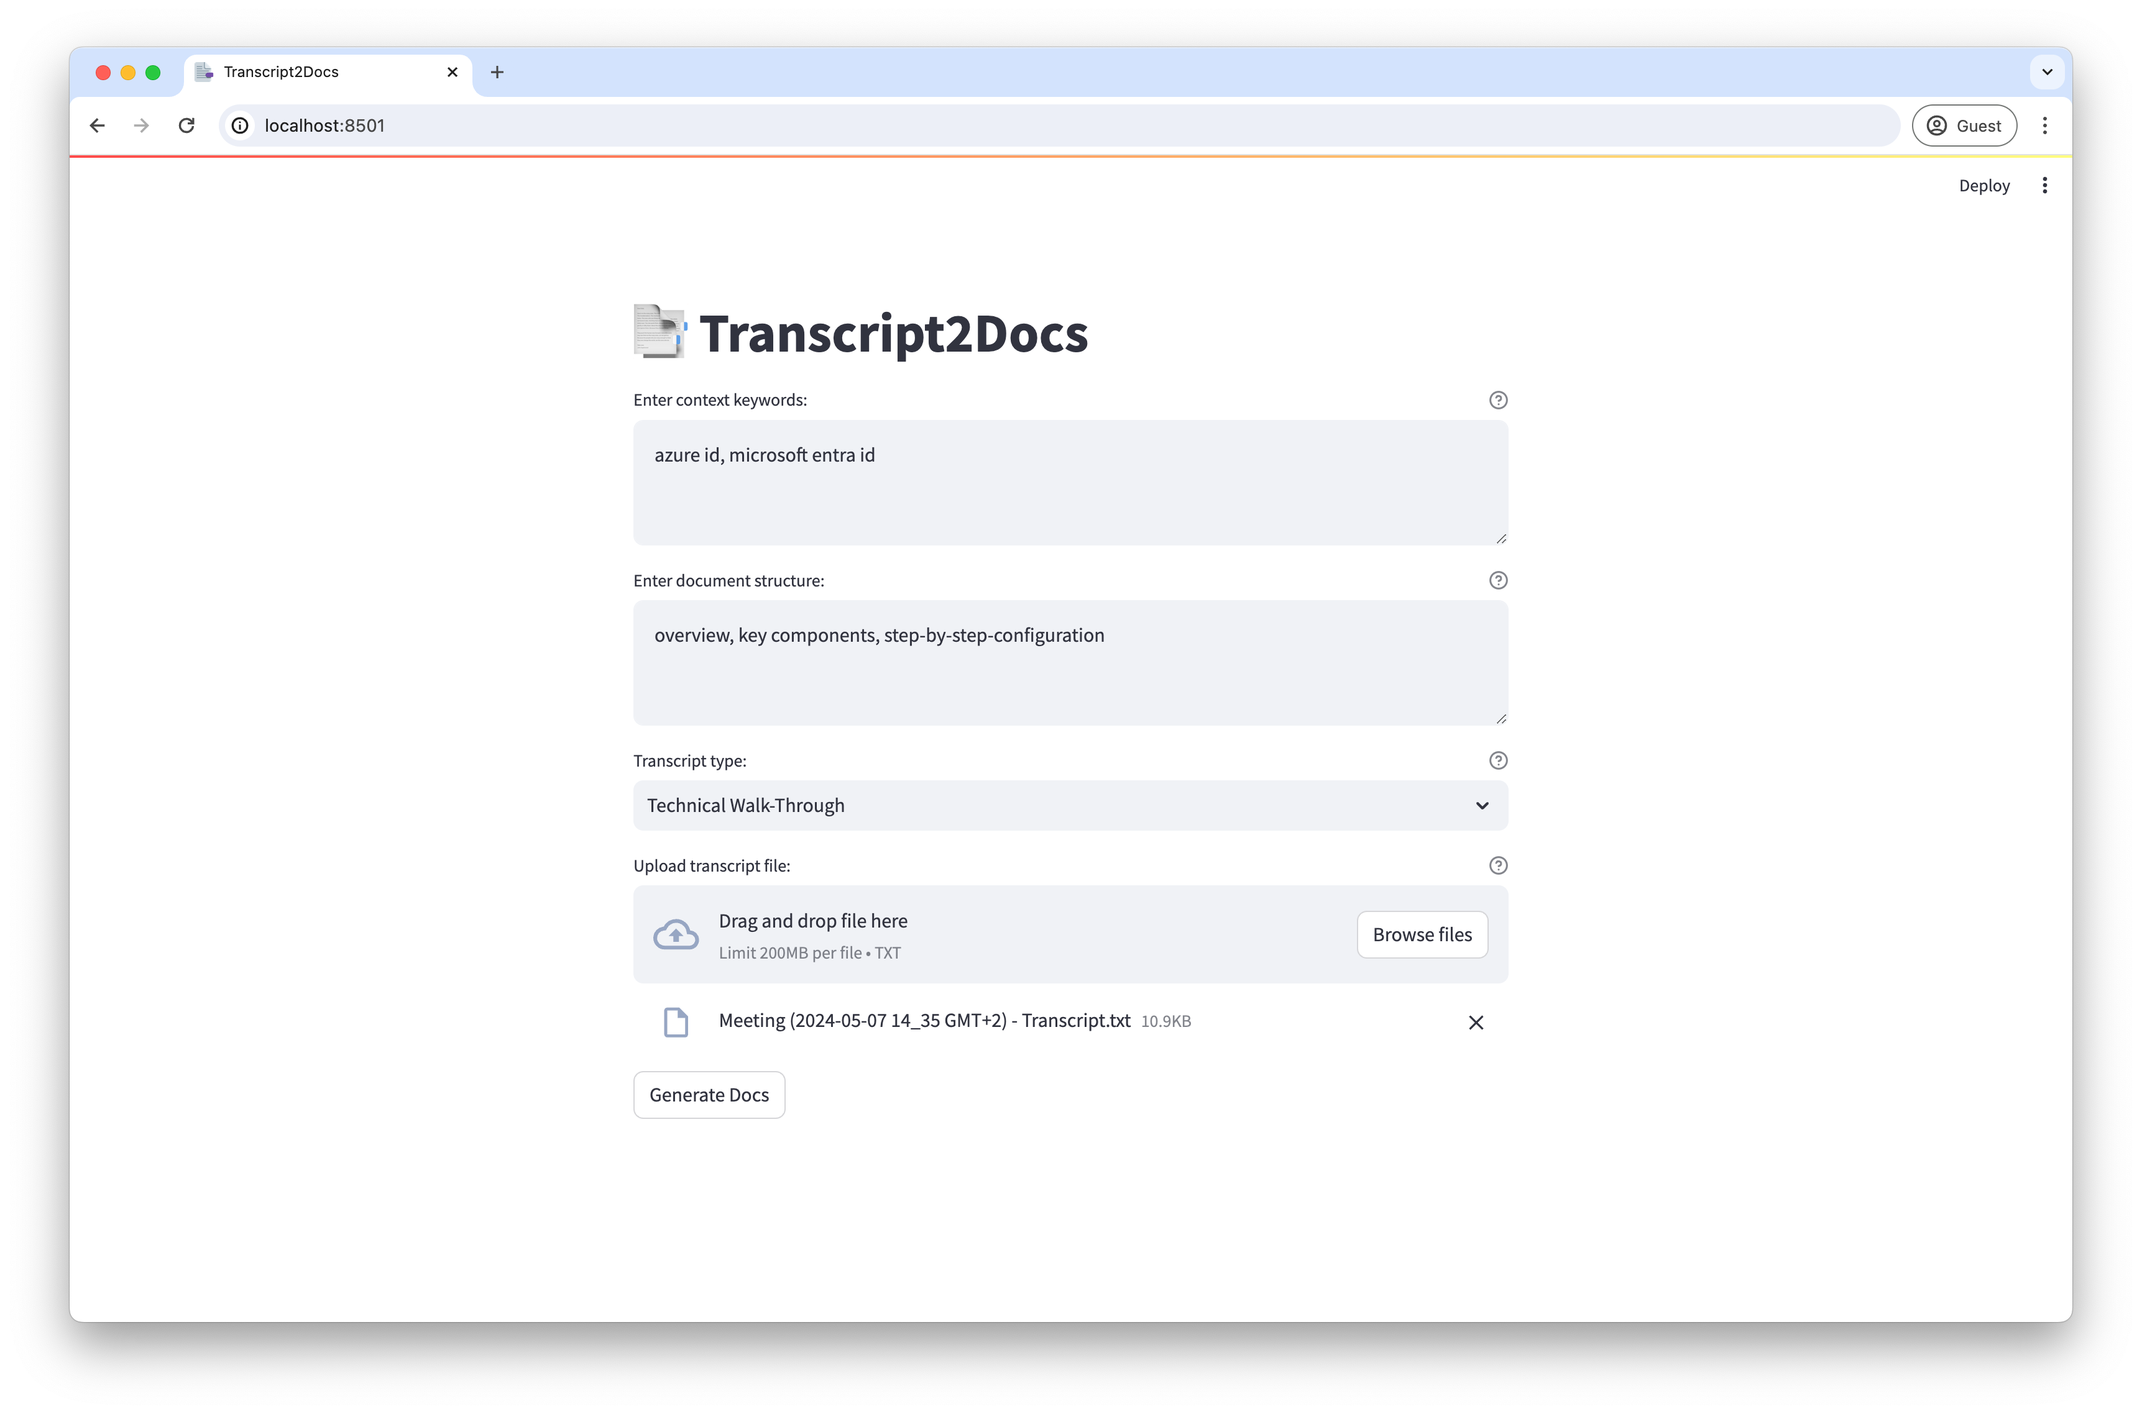
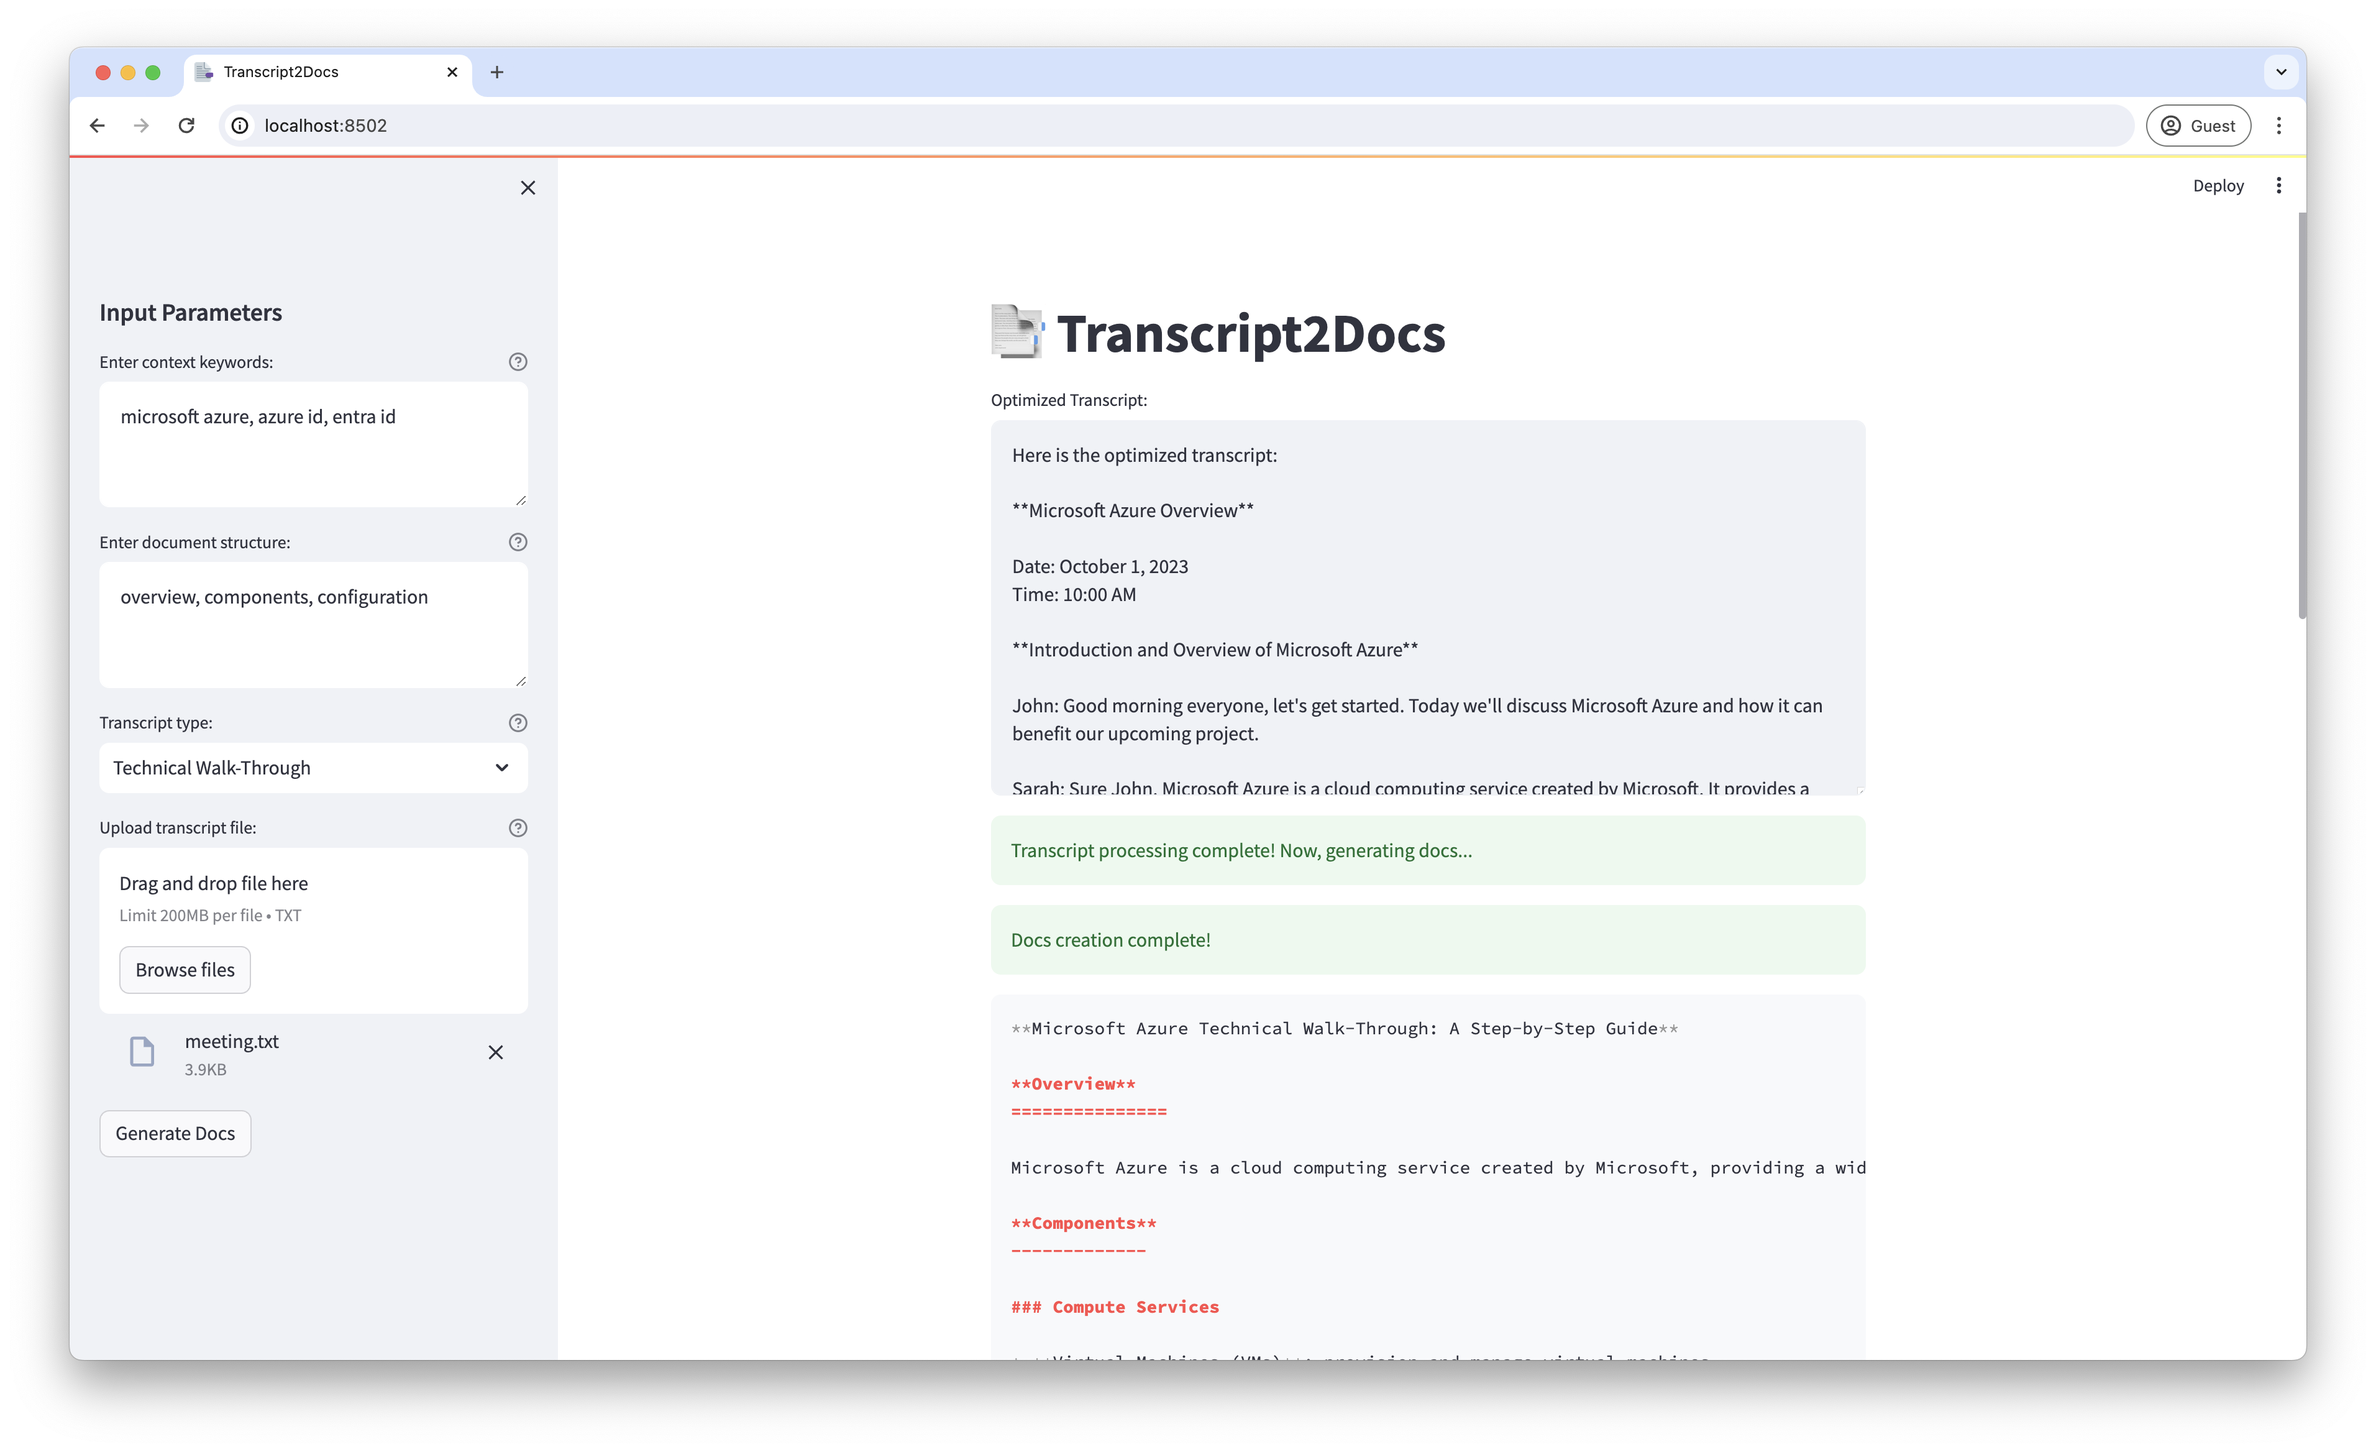
Release 0.2.0

diff --git a/lib/engine.py b/lib/engine.py
@@ -1,8 +1,14 @@
 import yaml
+import logging
+import hashlib
+import os
+
 from langchain.chains import LLMChain
-from langchain_openai import ChatOpenAI
 from langchain_core.prompts import PromptTemplate
 from langchain_text_splitters import TokenTextSplitter
+
+# Configure logging
+logging.basicConfig(level=logging.INFO, format='%(asctime)s - %(levelname)s - %(message)s')
 
 # Loading config yaml for chains
 transcript_config = "transcript.yaml"
@@ -10,6 +16,11 @@ docs_config = "docs.yaml"
 
 # Setting chunk size
 chunk_size = 1000
+
+# Ensure cache directory exists
+cache_dir = 'lib/cache'
+if not os.path.exists(cache_dir):
+    os.makedirs(cache_dir)
 
 def load_chain_config(file_name):
     """
@@ -19,13 +30,33 @@ def load_chain_config(file_name):
     with open(file_path, 'r', encoding='utf-8') as file:
         return yaml.safe_load(file)
 
+def create_llm(llm_config):
+    """
+    Create an LLM instance based on the provided configuration.
+    """
+    provider = llm_config['provider']
+    model = llm_config['model']
+    temperature = llm_config['temperature']
+
+    if provider == 'OpenAI':
+        from langchain_openai import ChatOpenAI
+        return ChatOpenAI(model=model, temperature=temperature)
+    elif provider == 'Anthropic':
+        from langchain_anthropic import ChatAnthropic
+        return ChatAnthropic(model=model)
+    elif provider == 'Ollama':
+        from langchain_community.llms import Ollama
+        return Ollama(model=model)
+    else:
+        raise ValueError(f"Unsupported LLM provider: {provider}")
+
 def create_chain(chain_config):
     """
     Create an LLM chain based on the provided configuration.
     """
     config = load_chain_config(chain_config)
     llm_config = config['llm']
-    llm = ChatOpenAI(model=llm_config['model'], temperature=llm_config['temperature'])
+    llm = create_llm(llm_config)
     prompt_template = PromptTemplate.from_template(template=config['prompt'])
     return LLMChain(llm=llm, prompt=prompt_template)
 
@@ -33,26 +64,51 @@ def transcript_processing(file, context, type):
     """
     Process the transcript file with given context and transcript type.
     """
-    transcript_content = file.getvalue().decode('utf-8')
-    transcript_chain = create_chain(transcript_config)
-    chunk_overlap = int(chunk_size * 0.05)
-    text_splitter = TokenTextSplitter(chunk_size=chunk_size, chunk_overlap=chunk_overlap)
-    chunks = text_splitter.split_text(transcript_content)
+    try:
+        transcript_content = file.getvalue().decode('utf-8')
+        transcript_hash = hashlib.md5(transcript_content.encode()).hexdigest()
+        cache_file = f'{cache_dir}/{transcript_hash}.txt'
 
-    rewritten_transcript = []
-    for chunk in chunks:
-        response = transcript_chain.invoke({"context": context, "transcript": chunk, "transcript_type": type})
-        rewritten_text = response["text"]
-        rewritten_transcript.append(rewritten_text)
+        # Check if the processed transcript is already cached
+        try:
+            with open(cache_file, 'r', encoding='utf-8') as cache:
+                logging.info("Loading cached transcript.")
+                return cache.read()
+        except FileNotFoundError:
+            logging.info("No cached transcript found. Processing new transcript.")
 
-    return ' '.join(rewritten_transcript)
+        transcript_chain = create_chain(transcript_config)
+        chunk_overlap = int(chunk_size * 0.05)
+        text_splitter = TokenTextSplitter(chunk_size=chunk_size, chunk_overlap=chunk_overlap)
+        chunks = text_splitter.split_text(transcript_content)
+
+        rewritten_transcript = []
+        for chunk in chunks:
+            response = transcript_chain.invoke({"context": context, "transcript": chunk, "transcript_type": type})
+            rewritten_text = response["text"]
+            rewritten_transcript.append(rewritten_text)
+
+        final_transcript = ' '.join(rewritten_transcript)
+
+        # Cache the processed transcript
+        with open(cache_file, 'w', encoding='utf-8') as cache:
+            cache.write(final_transcript)
+
+        return final_transcript
+    except Exception as e:
+        logging.error(f"Error in transcript processing: {e}")
+        raise
 
 def docs_generation(transcript, structure, context, type):
     """
     Generate documentation from the transcript with given structure and context.
     """
-    docs_chain = create_chain(docs_config)
-    response = docs_chain.invoke({"structure": structure, "transcript": transcript, "context": context, "transcript_type": type})
-    docs_text = response["text"]
+    try:
+        docs_chain = create_chain(docs_config)
+        response = docs_chain.invoke({"structure": structure, "transcript": transcript, "context": context, "transcript_type": type})
+        docs_text = response["text"]
 
-    return docs_text
+        return docs_text
+    except Exception as e:
+        logging.error(f"Error in docs generation: {e}")
+        raise

diff --git a/app.py b/app.py
@@ -1,26 +1,45 @@
 import streamlit as st
 from lib.engine import transcript_processing, docs_generation
+import logging
+
+# Configure logging
+logging.basicConfig(level=logging.INFO, format='%(asctime)s - %(levelname)s - %(message)s')
 
 st.set_page_config(page_title="Transcript2Docs", layout="centered", page_icon="📑", initial_sidebar_state="auto", menu_items=None)
 st.title(":bookmark_tabs: Transcript2Docs")
 
-context_keywords = st.text_area("Enter context keywords:", help="Separate keywords with commas. This helps to optimize the original transcript and write the documentation.")
-docs_structure = st.text_area("Enter document structure:", help="Separate by commas. Outline the desired structure of the final documentation.")
-transcript_type = st.selectbox("Transcript type:", ("Live Tutorial", "Technical Walk-Through", "Knowledge Sharing", "General Meeting"), help="Specify the type of transcript")
-transcript_file = st.file_uploader("Upload transcript file:", type=['txt'], help="Upload the transcript .txt file here.")
+# Sidebar for inputs
+st.sidebar.header("Input Parameters")
+context_keywords = st.sidebar.text_area("Enter context keywords:", help="Separate keywords with commas. This helps to optimize the original transcript and write the documentation.")
+docs_structure = st.sidebar.text_area("Enter document structure:", help="Separate by commas. Outline the desired structure of the final documentation.")
+transcript_type = st.sidebar.selectbox("Transcript type:", ("Live Tutorial", "Technical Walk-Through", "Knowledge Sharing", "General Meeting"), help="Specify the type of transcript")
+transcript_file = st.sidebar.file_uploader("Upload transcript file:", type=['txt'], help="Upload the transcript .txt file here.")
 
-if st.button('Generate Docs'):
+# Initialize session state for storing the generated document
+if 'final_docs' not in st.session_state:
+    st.session_state.final_docs = None
+
+if st.sidebar.button('Generate Docs'):
     if transcript_file is not None and context_keywords and docs_structure:
-        with st.spinner('Processing transcript…'):
-            final_transcript = transcript_processing(file=transcript_file, context=context_keywords, type=transcript_type)
-            st.text_area("Optimized Transcript:", value=final_transcript, height=300)
+        try:
+            with st.spinner('Processing transcript...'):
+                final_transcript = transcript_processing(file=transcript_file, context=context_keywords, type=transcript_type)
+                st.text_area("Optimized Transcript:", value=final_transcript, height=300)
 
-        st.success("Transcript processing complete! Now, generating docs…")
+            st.success("Transcript processing complete! Now, generating docs...")
 
-        with st.spinner('Creating docs…'):
-            final_docs = docs_generation(transcript=final_transcript, structure=docs_structure, context=context_keywords, type=transcript_type)
-            st.code(final_docs, language="markdown")
+            with st.spinner('Creating docs...'):
+                final_docs = docs_generation(transcript=final_transcript, structure=docs_structure, context=context_keywords, type=transcript_type)
+                st.session_state.final_docs = final_docs  # Store the generated document in session state
 
-        st.success("Docs creation complete!")
+            st.success("Docs creation complete!")
+        except Exception as e:
+            st.error(f"An error occurred: {e}")
+            logging.error(f"Error during processing: {e}")
     else:
         st.error("Please upload a transcript file and ensure all inputs are filled.")
+
+# Display the generated document if it exists in session state
+if st.session_state.final_docs:
+    st.code(st.session_state.final_docs, language="markdown")
+    st.download_button(label="Download Docs", data=st.session_state.final_docs, file_name="generated_docs.md", mime="text/markdown")

diff --git a/README.md b/README.md
@@ -28,13 +28,19 @@ That's why I came up with :bookmark_tabs: **Transcript2Docs**. It takes the tran
 - **Custom Document Structure**: Create documents with a user-defined structure.
 - **Multiple Meeting Types**: Supports various types of meetings like Live Tutorial, Technical Walk-Through, Knowledge Sharing, and General Meeting.
 - **Easy Integration**: Works with transcripts from any provider.
-- **Modular Components**: Based on LangChain, Streamlit, and OpenAI (can be exchanged with local LLMs such as Ollama).
+- **Modular LLM Configuration**: Based on LangChain, you can configure the provider, model and temperature individually for each chain (incl. localhost models supported by Ollama)
 - **Configurable Chains**: Chains are configurable through the YAML files `transcript.yaml` and `docs.yaml`.
 
 ### Components
 - **Streamlit for UI**: Streamlit is an open-source app framework used to create interactive web applications. It provides a simple and efficient way to build and deploy user interfaces for the application, allowing users to upload transcripts, input context, and specify document structure.
 - **LangChain for Programmatic Operations and Text Splitting**: LangChain is a powerful library that facilitates programmatic operations such as text processing and splitting. It is used to manage the complex workflows involved in handling and processing large text data, ensuring that the documents are chunked appropriately according to token limits.
-- **OpenAI as Hosted LLM**: OpenAI provides large language models (LLMs) hosted on its platform. These models are used for natural language processing tasks, including understanding context, generating text, and ensuring semantic accuracy. The hosted LLMs are leveraged to process each chunk of the transcript and generate the final documentation.
+
+### LLMs
+- **OpenAI:** Any model offered by OpenAI that is supported by the ChatOpenAI API can be leveraged.
+- **Anthropic:** Hosted LLMs provided by Anthropic can be used (e.g., Claude 3).
+- **Ollama:** To support privacy sensitive tasks, any locally installed and run model from Ollama can be used.
+
+**For more information how to set the models up, see [Configuration](#configuration)**
 
 ### Workflow
 1. **Transcript Upload**: The transcript from the meeting (e.g., Google Meet) is uploaded via the Streamlit UI. Along with the transcript, users provide essential information about the context and structure of the desired document.
@@ -55,24 +61,40 @@ That's why I came up with :bookmark_tabs: **Transcript2Docs**. It takes the tran
 2. **Set up a virtual environment:**
    ```sh
    python -m venv venv
-   source venv/bin/activate  # On Windows, use `venv\Scripts\activate`
+   source venv/bin/activate
    ```
 
 3. **Install the required dependencies:**
    ```sh
    pip install -r requirements.txt
    ```
-4. **Add OpenAI API key:**
-   ```sh
+4. **Enable LLM:**
+   
+   Either configure an API key to a proprietary model:
+   ```
    echo "OPENAI_API_KEY=your_openai_api_key_here" > .env
    ```
+   or get [Ollama](https://github.com/ollama/ollama/tree/main) installed to use local models.
 
 ## Configuration
 
 Make sure to review the YAML files for chains and adjust models and prompts if required:
 
-- `lib/chains/transcript.yaml`
-- `lib/chains/docs.yaml`
+````
+lib/chains/transcript.yaml
+lib/chains/docs.yaml
+````
+
+You can configure the LLM (provider, model, temperature) as well as the prompts directly there:
+
+```
+llm:
+  provider : 'Ollama'
+  model: 'llama3'
+  temperature: 0.5
+prompt: |
+  <prompt>
+```
 
 ## Usage
 
@@ -85,6 +107,8 @@ Make sure to review the YAML files for chains and adjust models and prompts if r
 3. **Enter context keywords and document structure (best as comma seperated, individual values).**
 4. **Select the type of meeting transcript.**
 5. **Click on 'Generate Docs'.**
+
+**If you configured a local model, ensure to have Ollama running before starting the application!**
 
 ## License
 

diff --git a/CHANGELOG.md b/CHANGELOG.md
@@ -1,0 +1,45 @@
+# Changelog
+
+All notable changes to this project will be documented in this file.
+
+The format is based on [Keep a Changelog](https://keepachangelog.com/en/1.0.0/),
+and this project adheres to [Semantic Versioning](https://semver.org/spec/v2.0.0.html).
+
+## [Unreleased]
+
+## [0.2.0] - 2024-05-25
+
+### Added
+- **Support for Multiple LLM Providers**: 
+  - Introduced a factory pattern to dynamically create LLM instances based on the provider specified in the YAML configuration.
+  - Supported providers include OpenAI, Anthropic, and Ollama.
+  - Updated YAML configuration to include the `provider` field.
+- **Session State Management**:
+  - Utilized Streamlit's session state to persist the generated document on the frontend even after downloading.
+- **Download Button**:
+  - Added a download button to allow users to download the generated documentation as a Markdown file.
+- **Error Handling and Logging**:
+  - Enhanced error handling with try-except blocks and logging for better debugging.
+- **Caching**:
+  - Implemented caching to avoid reprocessing the same transcript, improving efficiency.
+
+### Changed
+- **User Interface**:
+  - Moved input fields to the sidebar for a cleaner main interface.
+  - Added a progress spinner to indicate processing status.
+- **Backend Code**:
+  - Refactored backend code to support dynamic importing of required libraries based on the LLM provider.
+  - Improved chunking logic to handle edge cases better.
+
+### Fixed
+- **State Persistence**:
+  - Fixed an issue where the generated document would disappear from the frontend after clicking the download button.
+
+## [0.1.0] - 2024-05-24
+
+### Added
+- Initial release of Transcript2Docs with basic functionality:
+  - Upload transcript file.
+  - Enter context keywords and document structure.
+  - Generate optimized transcript and documentation.
+  - Display generated documentation on the frontend.
